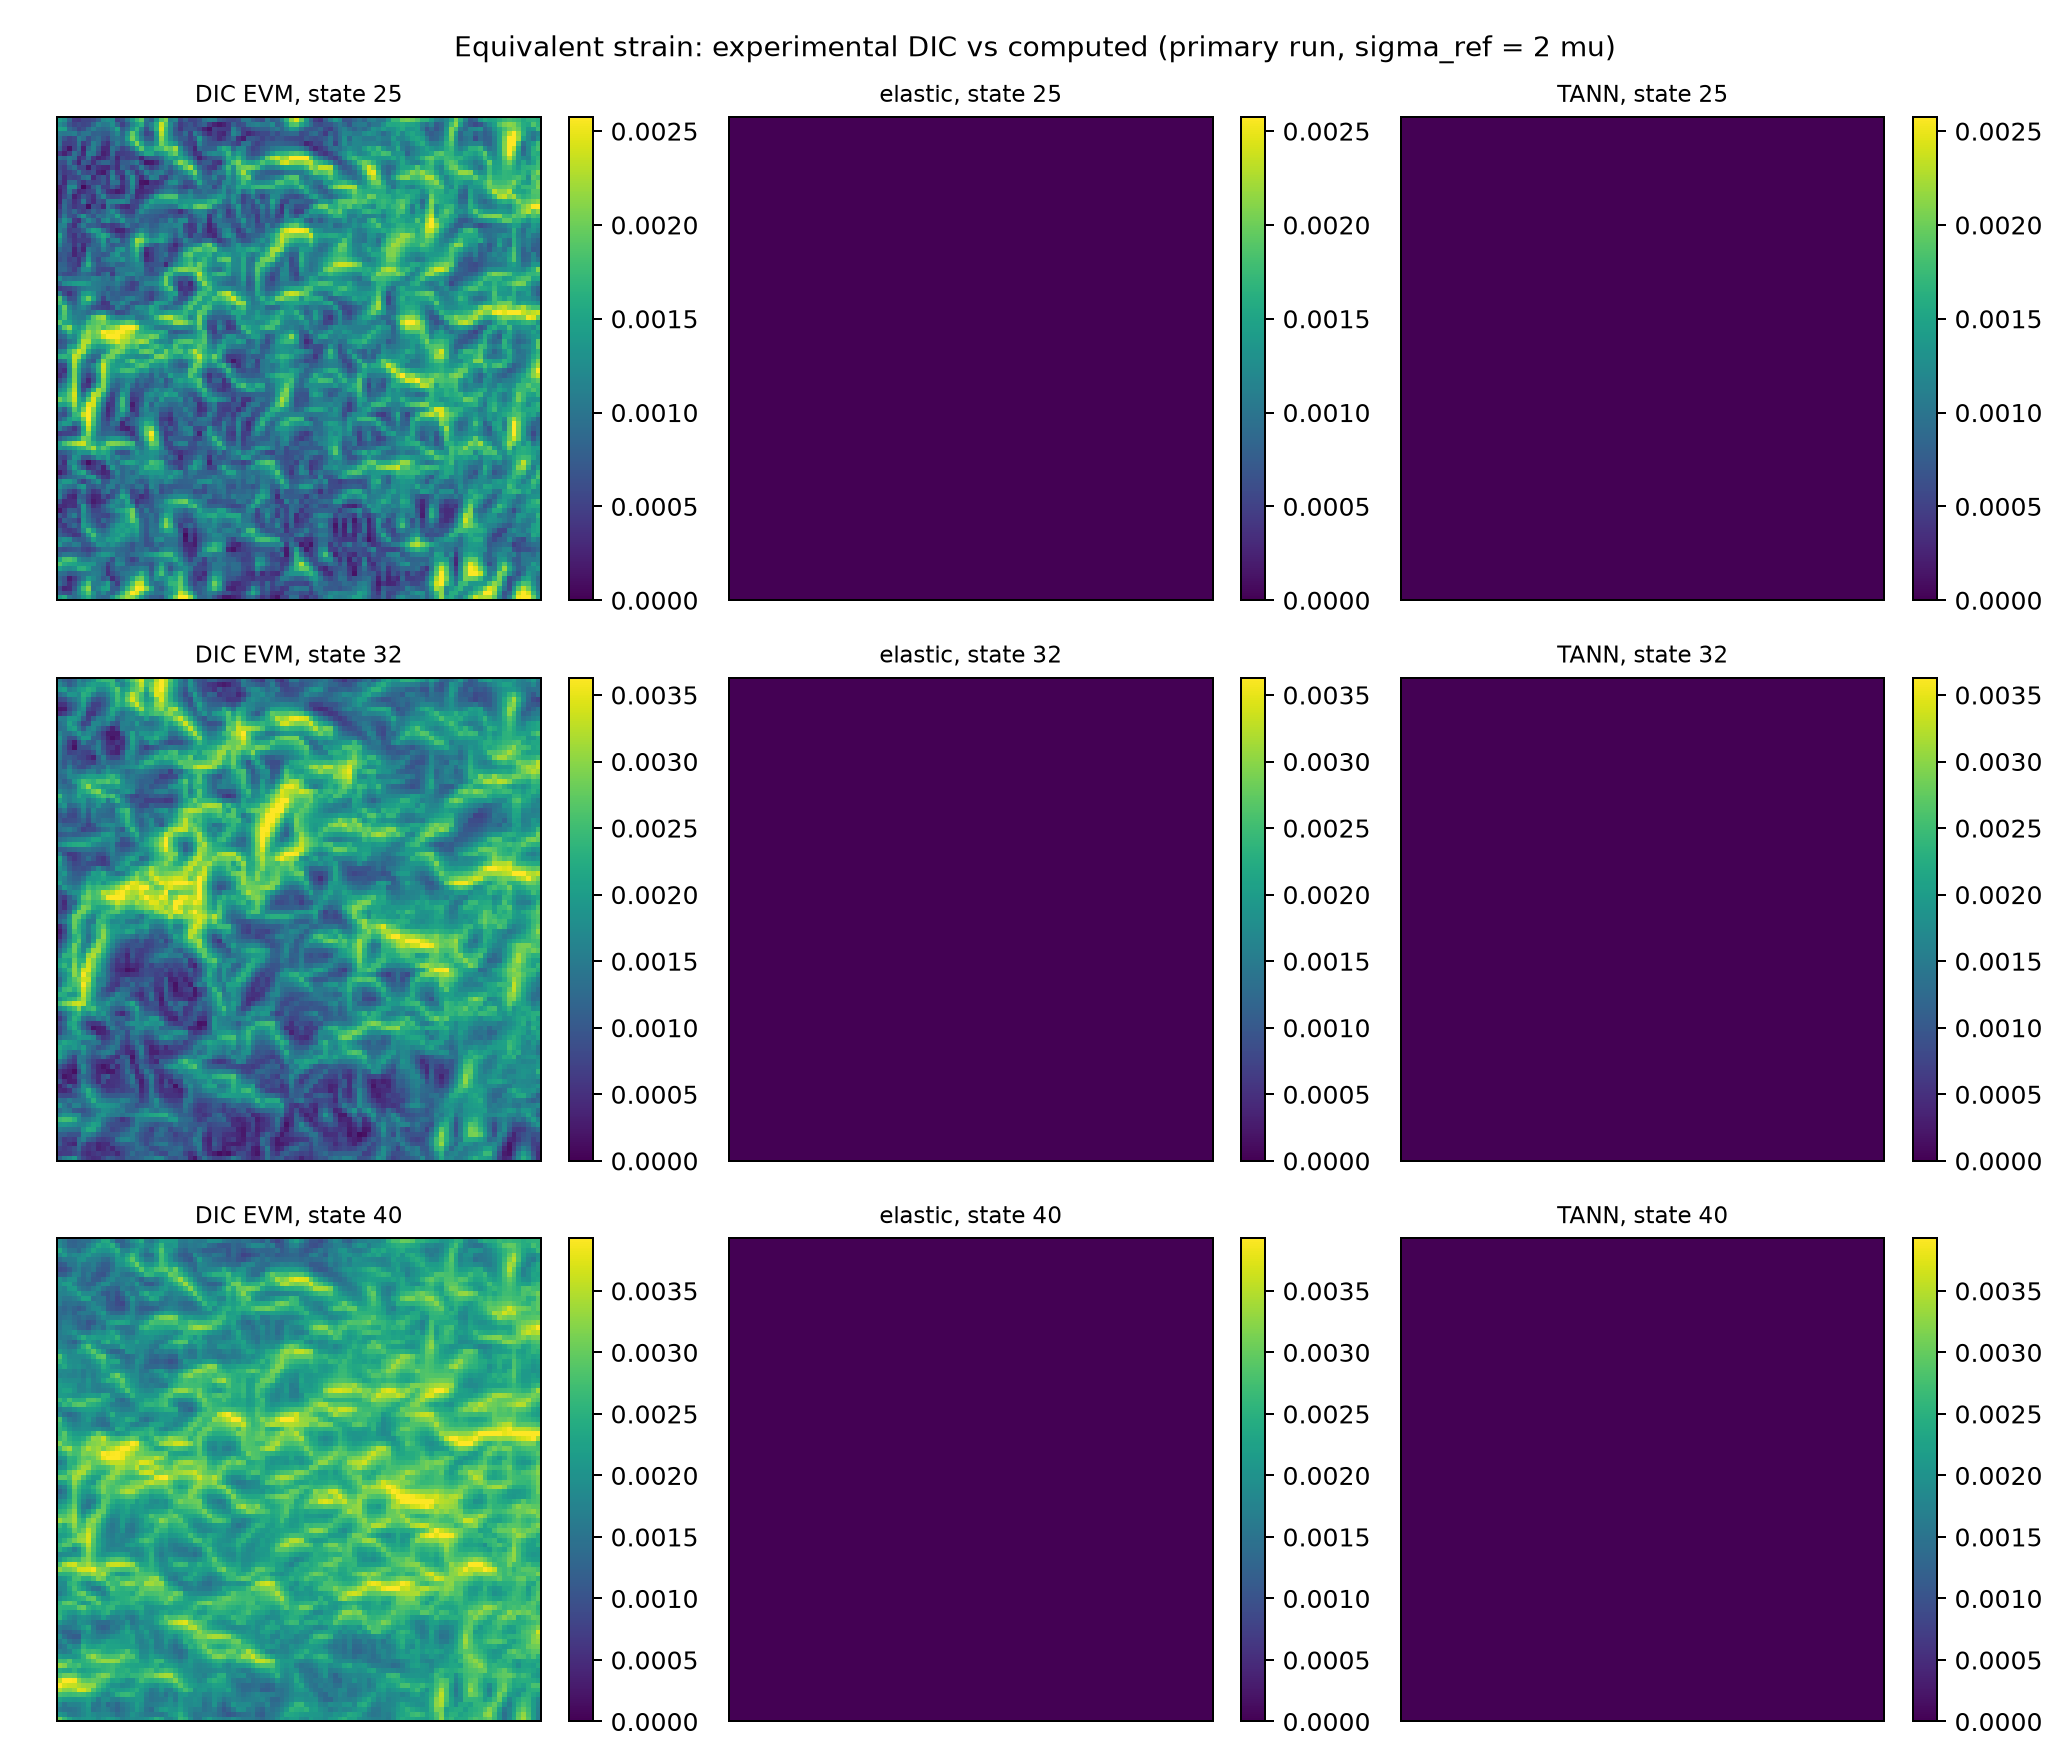
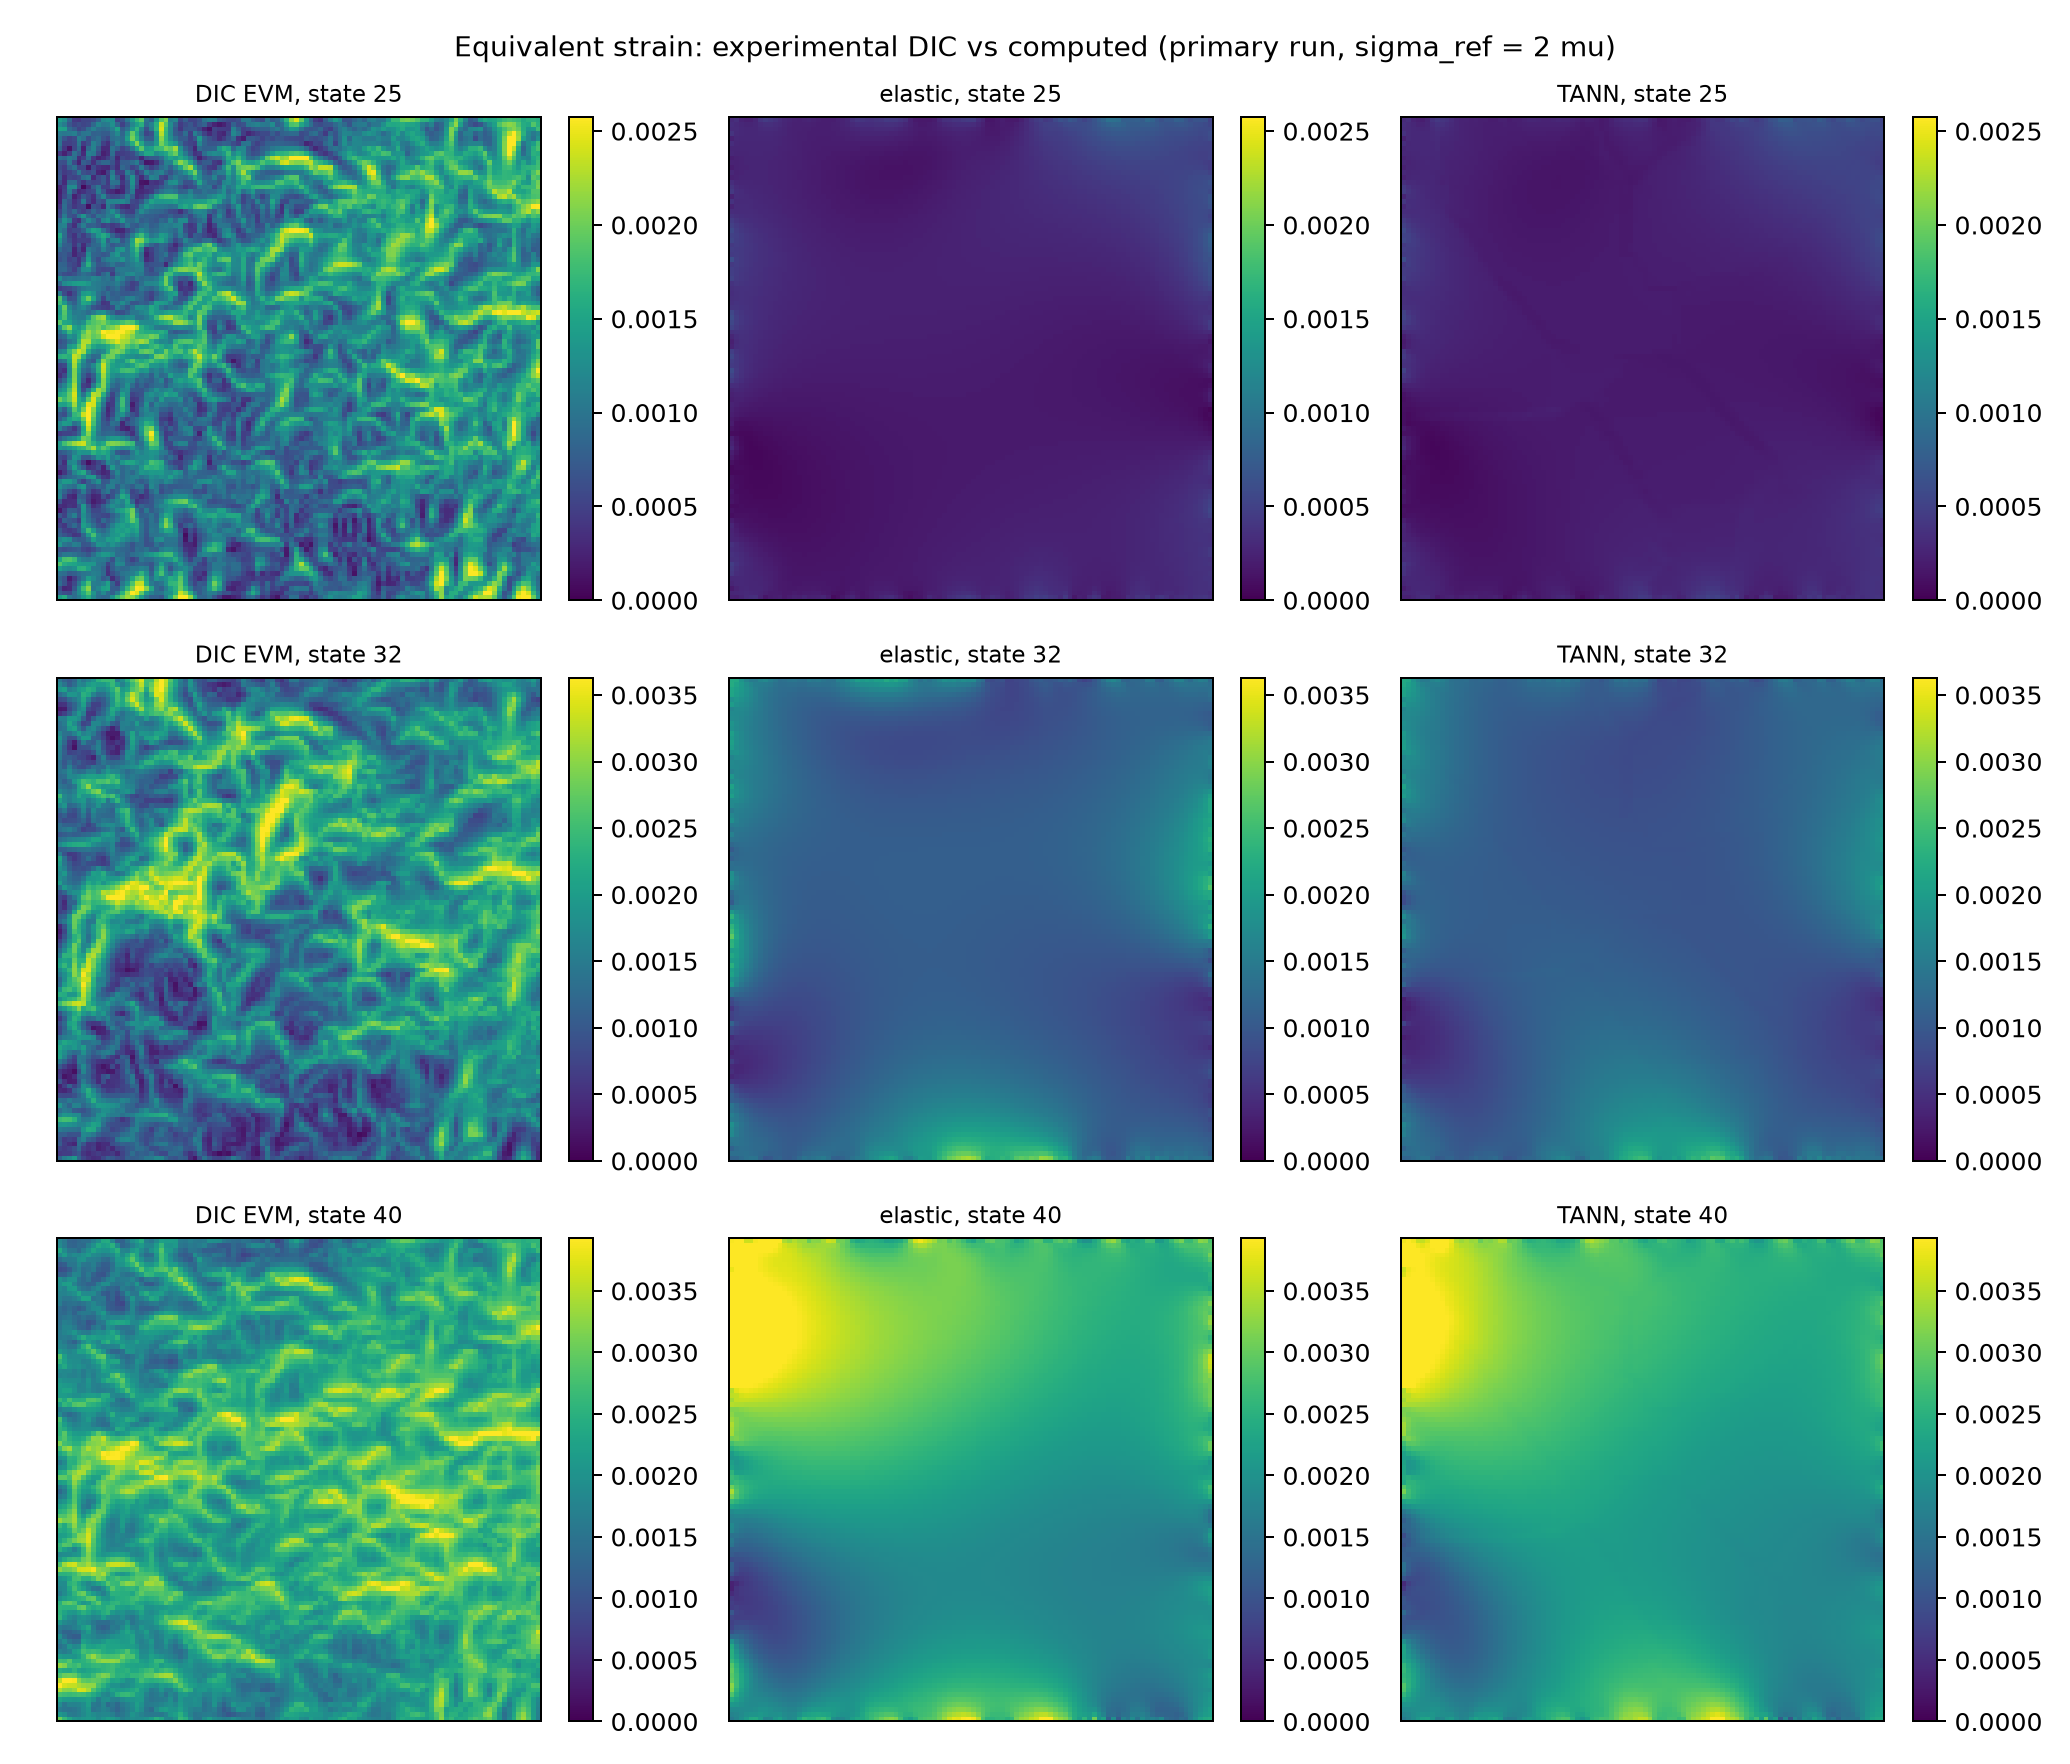
fix: pixel-size normalisation in the EVM comparison figure
The computed fields are millimetric; the first difference of a mm field
gives mm/pixel, and the strain needs the pixel size -- the archived
pipeline stores pixel displacements so its difference is already
dimensionless. The missing 1.84e-3 mm factor made the computed EVM ~550x
too small, which the Dirichlet argument forbids (shared boundary data
forces the strains to the same order). With the fix, state 40 agrees
with the archive to 1% (2.37e-3 vs 2.40e-3) and the early/intermediate
states show the documented elastic defect instead of an impossible gap.

diff --git a/scripts/figure_tann_evm_comparison.py b/scripts/figure_tann_evm_comparison.py
@@ -28,14 +28,23 @@ ARCHIVE = Path("/home/jeff/CNRS/Theses/Adil/essais/9_numerical/p0043_evm_history
 DEFAULT_ARTIFACT = ROOT / "validation/_generated/shared_tensor_generator/tann_fcc_p43_run.npz"
 ORIGIN = (1580, 1030)
 PIXELS = 100
+PIXEL_MM = 1.84e-3
 STATES = (25, 32, 40)
 
 
 def computed_evm(displacement: np.ndarray) -> np.ndarray:
-    """The archived definition on a nodal `(nx+1, ny+1, 2)` field in mm."""
+    """The archived definition on a nodal `(nx+1, ny+1, 2)` field in mm.
 
-    along_rows = displacement[..., 1]  # u_y
-    along_columns = displacement[..., 0]  # u_x
+    The first difference of a mm field gives mm/pixel; the strain is the
+    difference divided by the pixel size -- the archived pipeline stores
+    pixel displacements, so its first difference is already dimensionless.
+    Omitting the pixel size makes the computed EVM ~550x too small, which
+    a Dirichlet comparison forbids (the boundary strains must be of the
+    same order by construction).
+    """
+
+    along_rows = displacement[..., 1] / PIXEL_MM  # u_y -> pixels
+    along_columns = displacement[..., 0] / PIXEL_MM  # u_x -> pixels
     return equivalent_strain(along_rows, along_columns)
 
 
